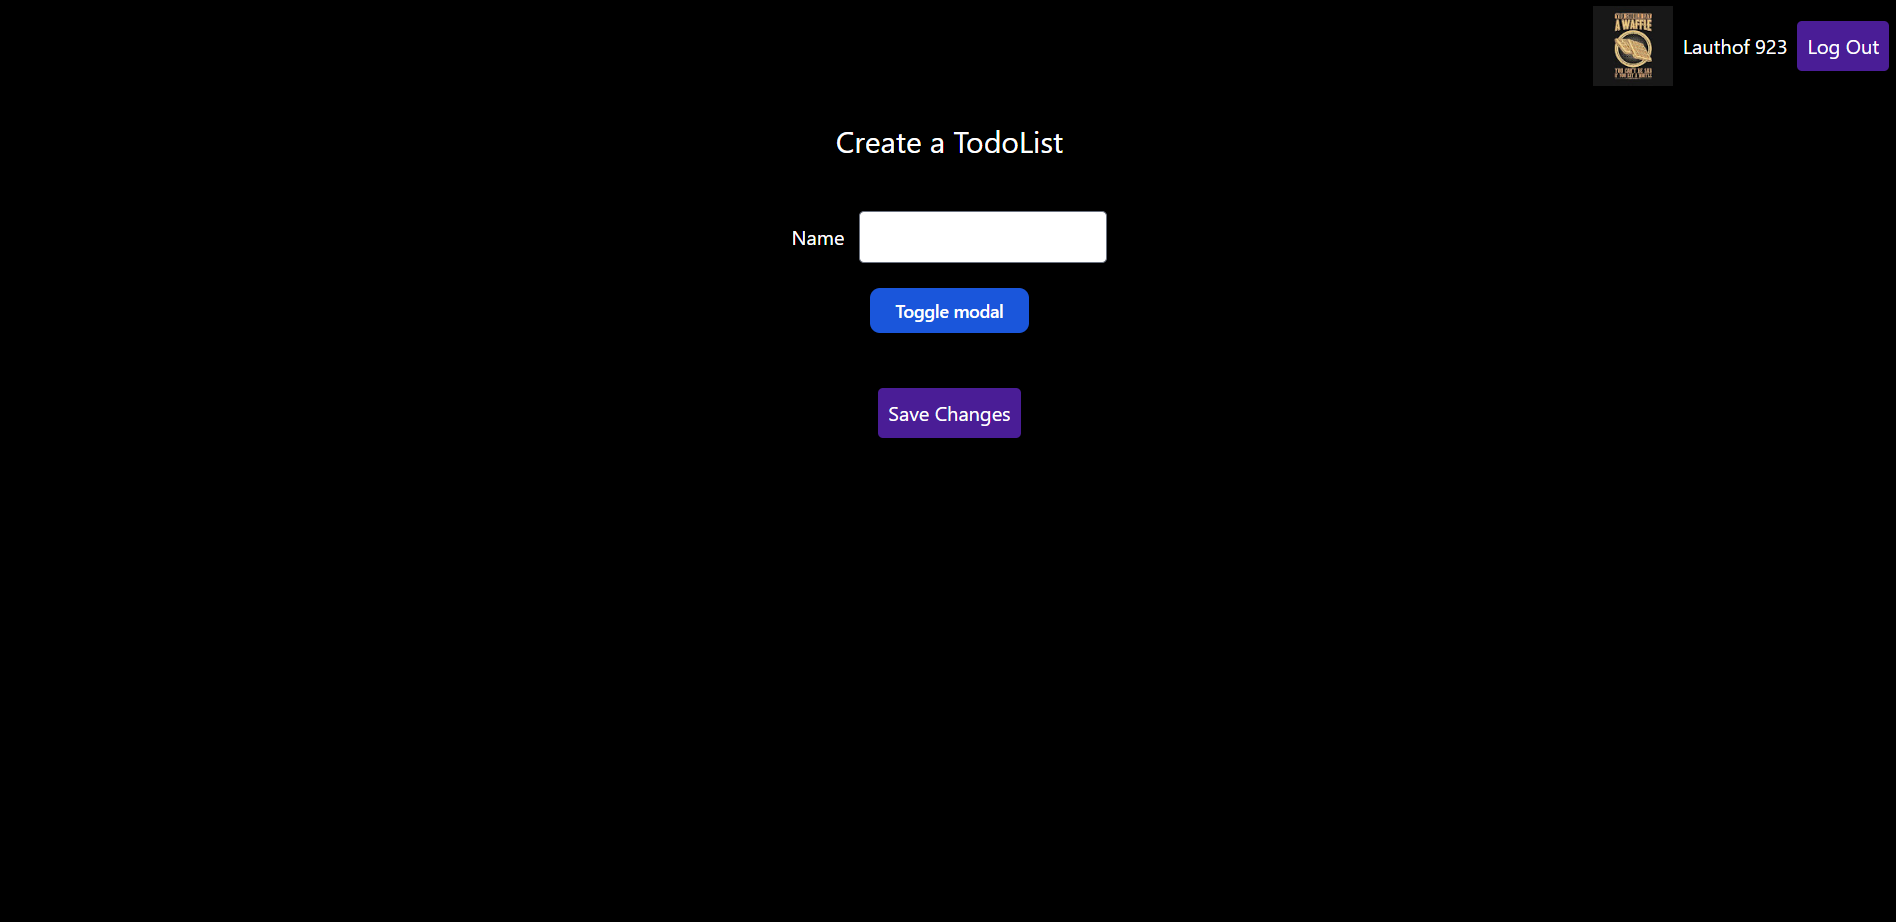
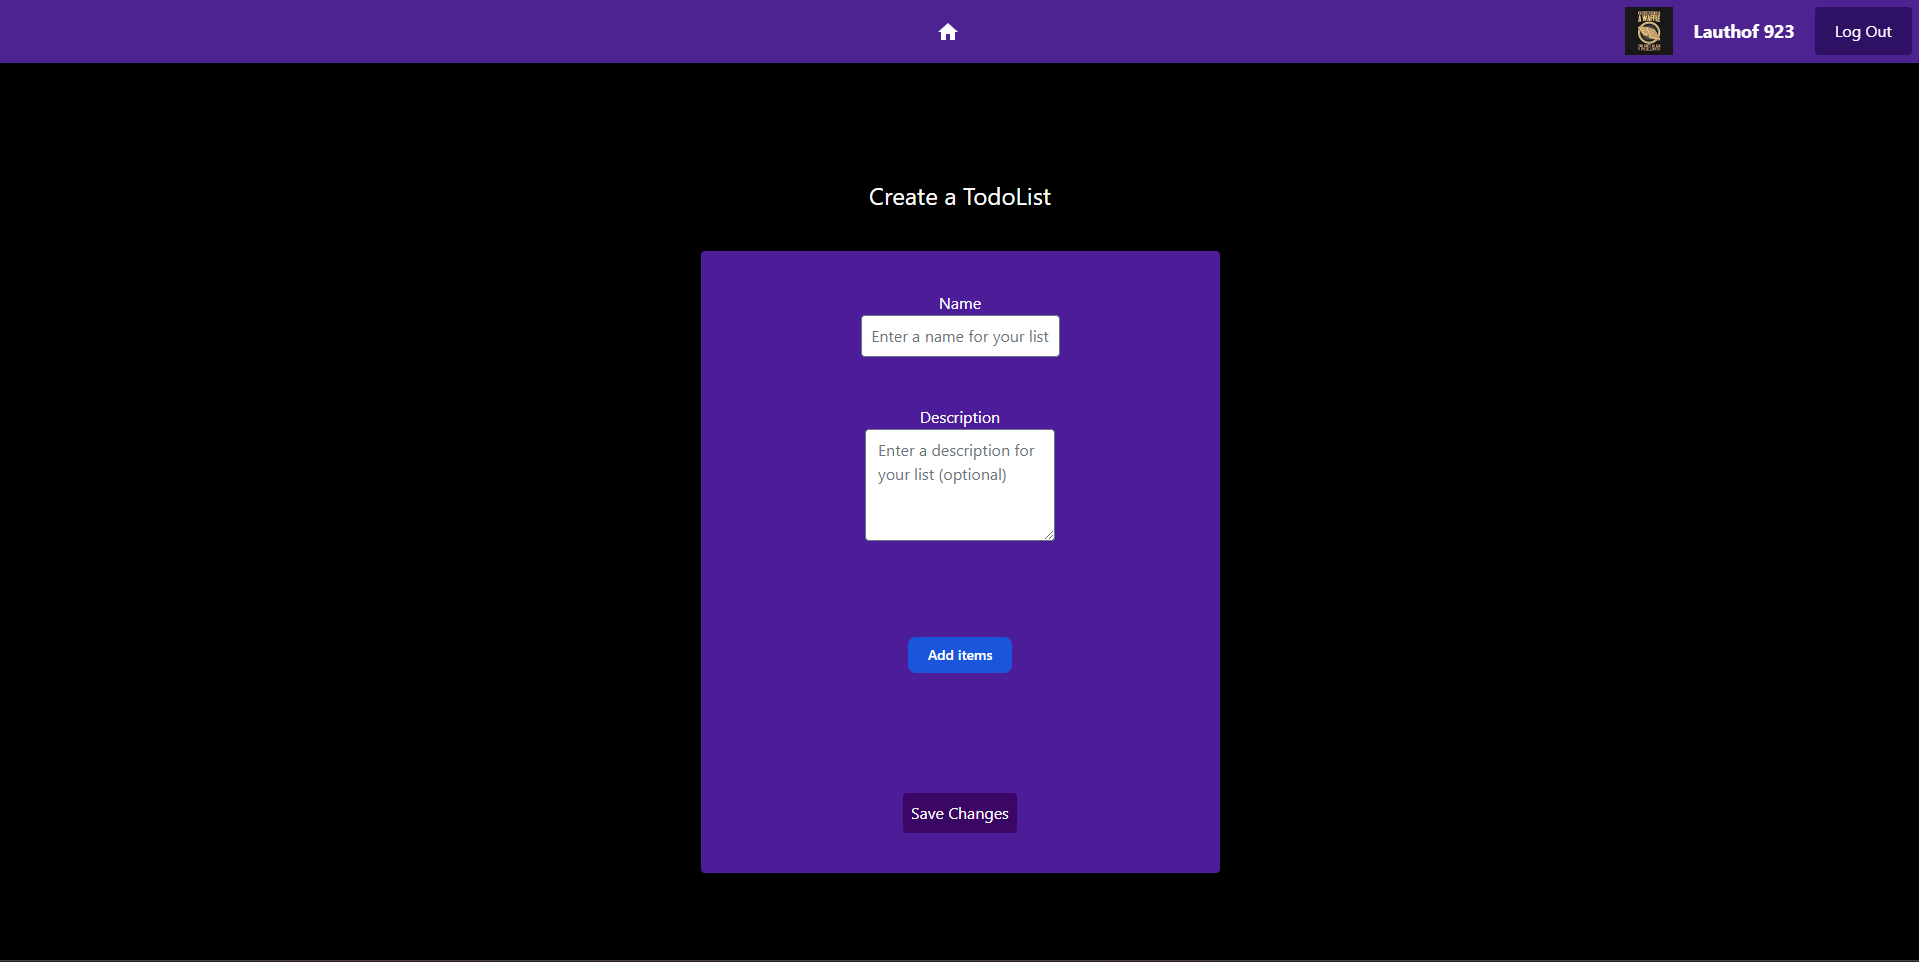
README update

Changed region(s): [[0.3423, 0.1518, 0.6535, 0.9111], [0.0, 0.0, 1.0, 0.0911]]

diff --git a/README.md b/README.md
@@ -8,7 +8,7 @@ First run `npm install`, then run `npm run dev`
 
 ## What is it?
 
-A simple todolist website created using nextjs. Styling is done with tailwindcss.
+A simple todolist website created using nextjs, prisma and mysql. Styling is done with tailwindcss and Material UI. Auth0 provides authentication and authorization.
 
 Log in and create a todo list, or view your existing todo lists.
 
@@ -21,13 +21,16 @@ To learn how nextjs works.
 ![Homescreen](images/home.png)
 ![Create a todo](images/create.png)
 ![add items to a todo](images/modal.png)
+![view your todolists](images/view.png)
+![view your items within a todolist](images/viewExpand.png)
+![View the details of a todolist](images/detail.png)
+
 
 ## Work in progress
 
-- Currently api routes are done with a separate backend using koajs. This will be removed and api routes will be done according to nextjs documentation, in the frontend.
-- Login and logout is possible but no routes are authentication protected yet.
-- There is currently no connection to the database, so you can not actually create or view todo's.
-- The screen for viewing your todo's is not fully implemented yet.
+- More styling
+- add functionality to edit and delete button when viewing a specific list
+- remove html Modal and add MUI modal
 
 ## Future features
 
